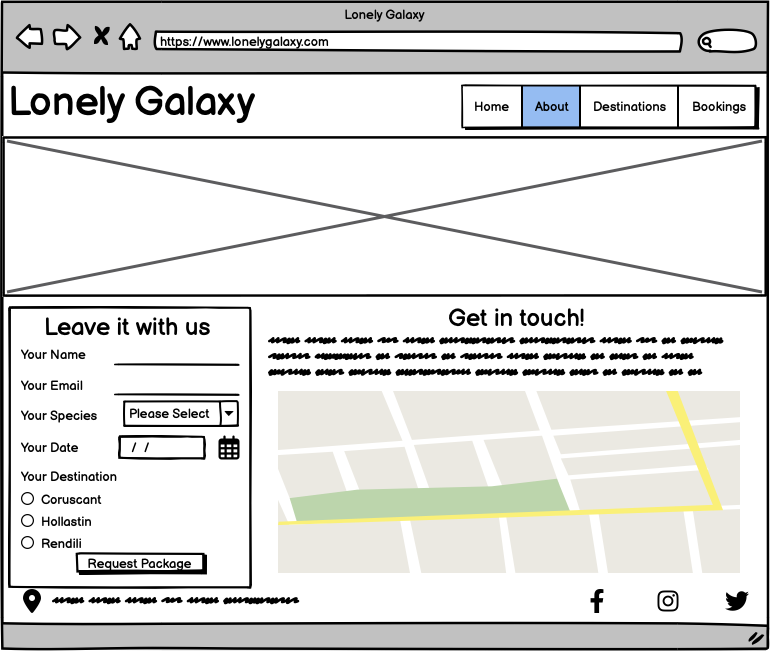
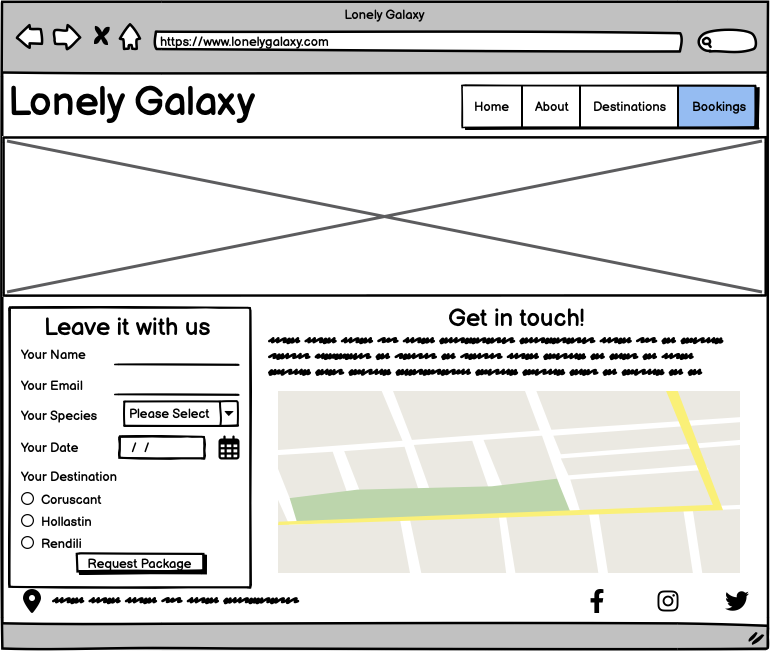
update bookings desktop wireframe image

Changed region(s): [[0.8727, 0.1229, 0.9974, 0.2151], [0.6545, 0.1229, 0.7792, 0.2151]]

diff --git a/README.md b/README.md
@@ -229,7 +229,7 @@ As a client, I want to connect with the business on social media.
  ![CSS Validation Image](assets/readme-files/css-validated.png)
 
 ### Accessibility
-[Lighthouse](https://developer.chrome.com/docs/lighthouse/overview) in [Chrome DevTools](https://developer.chrome.com/docs/devtools/) was used to confirm that the colors and fonts being used in throughout the website are easy to read and accessible.
+[Lighthouse](https://developer.chrome.com/docs/lighthouse/overview) in [Chrome DevTools](https://developer.chrome.com/docs/devtools/) was used to measure the quality of each page, focussing on performance, accessibility, best practices, and SEO scores.
 
 **Lighthouse Reports**
 - Home Page
